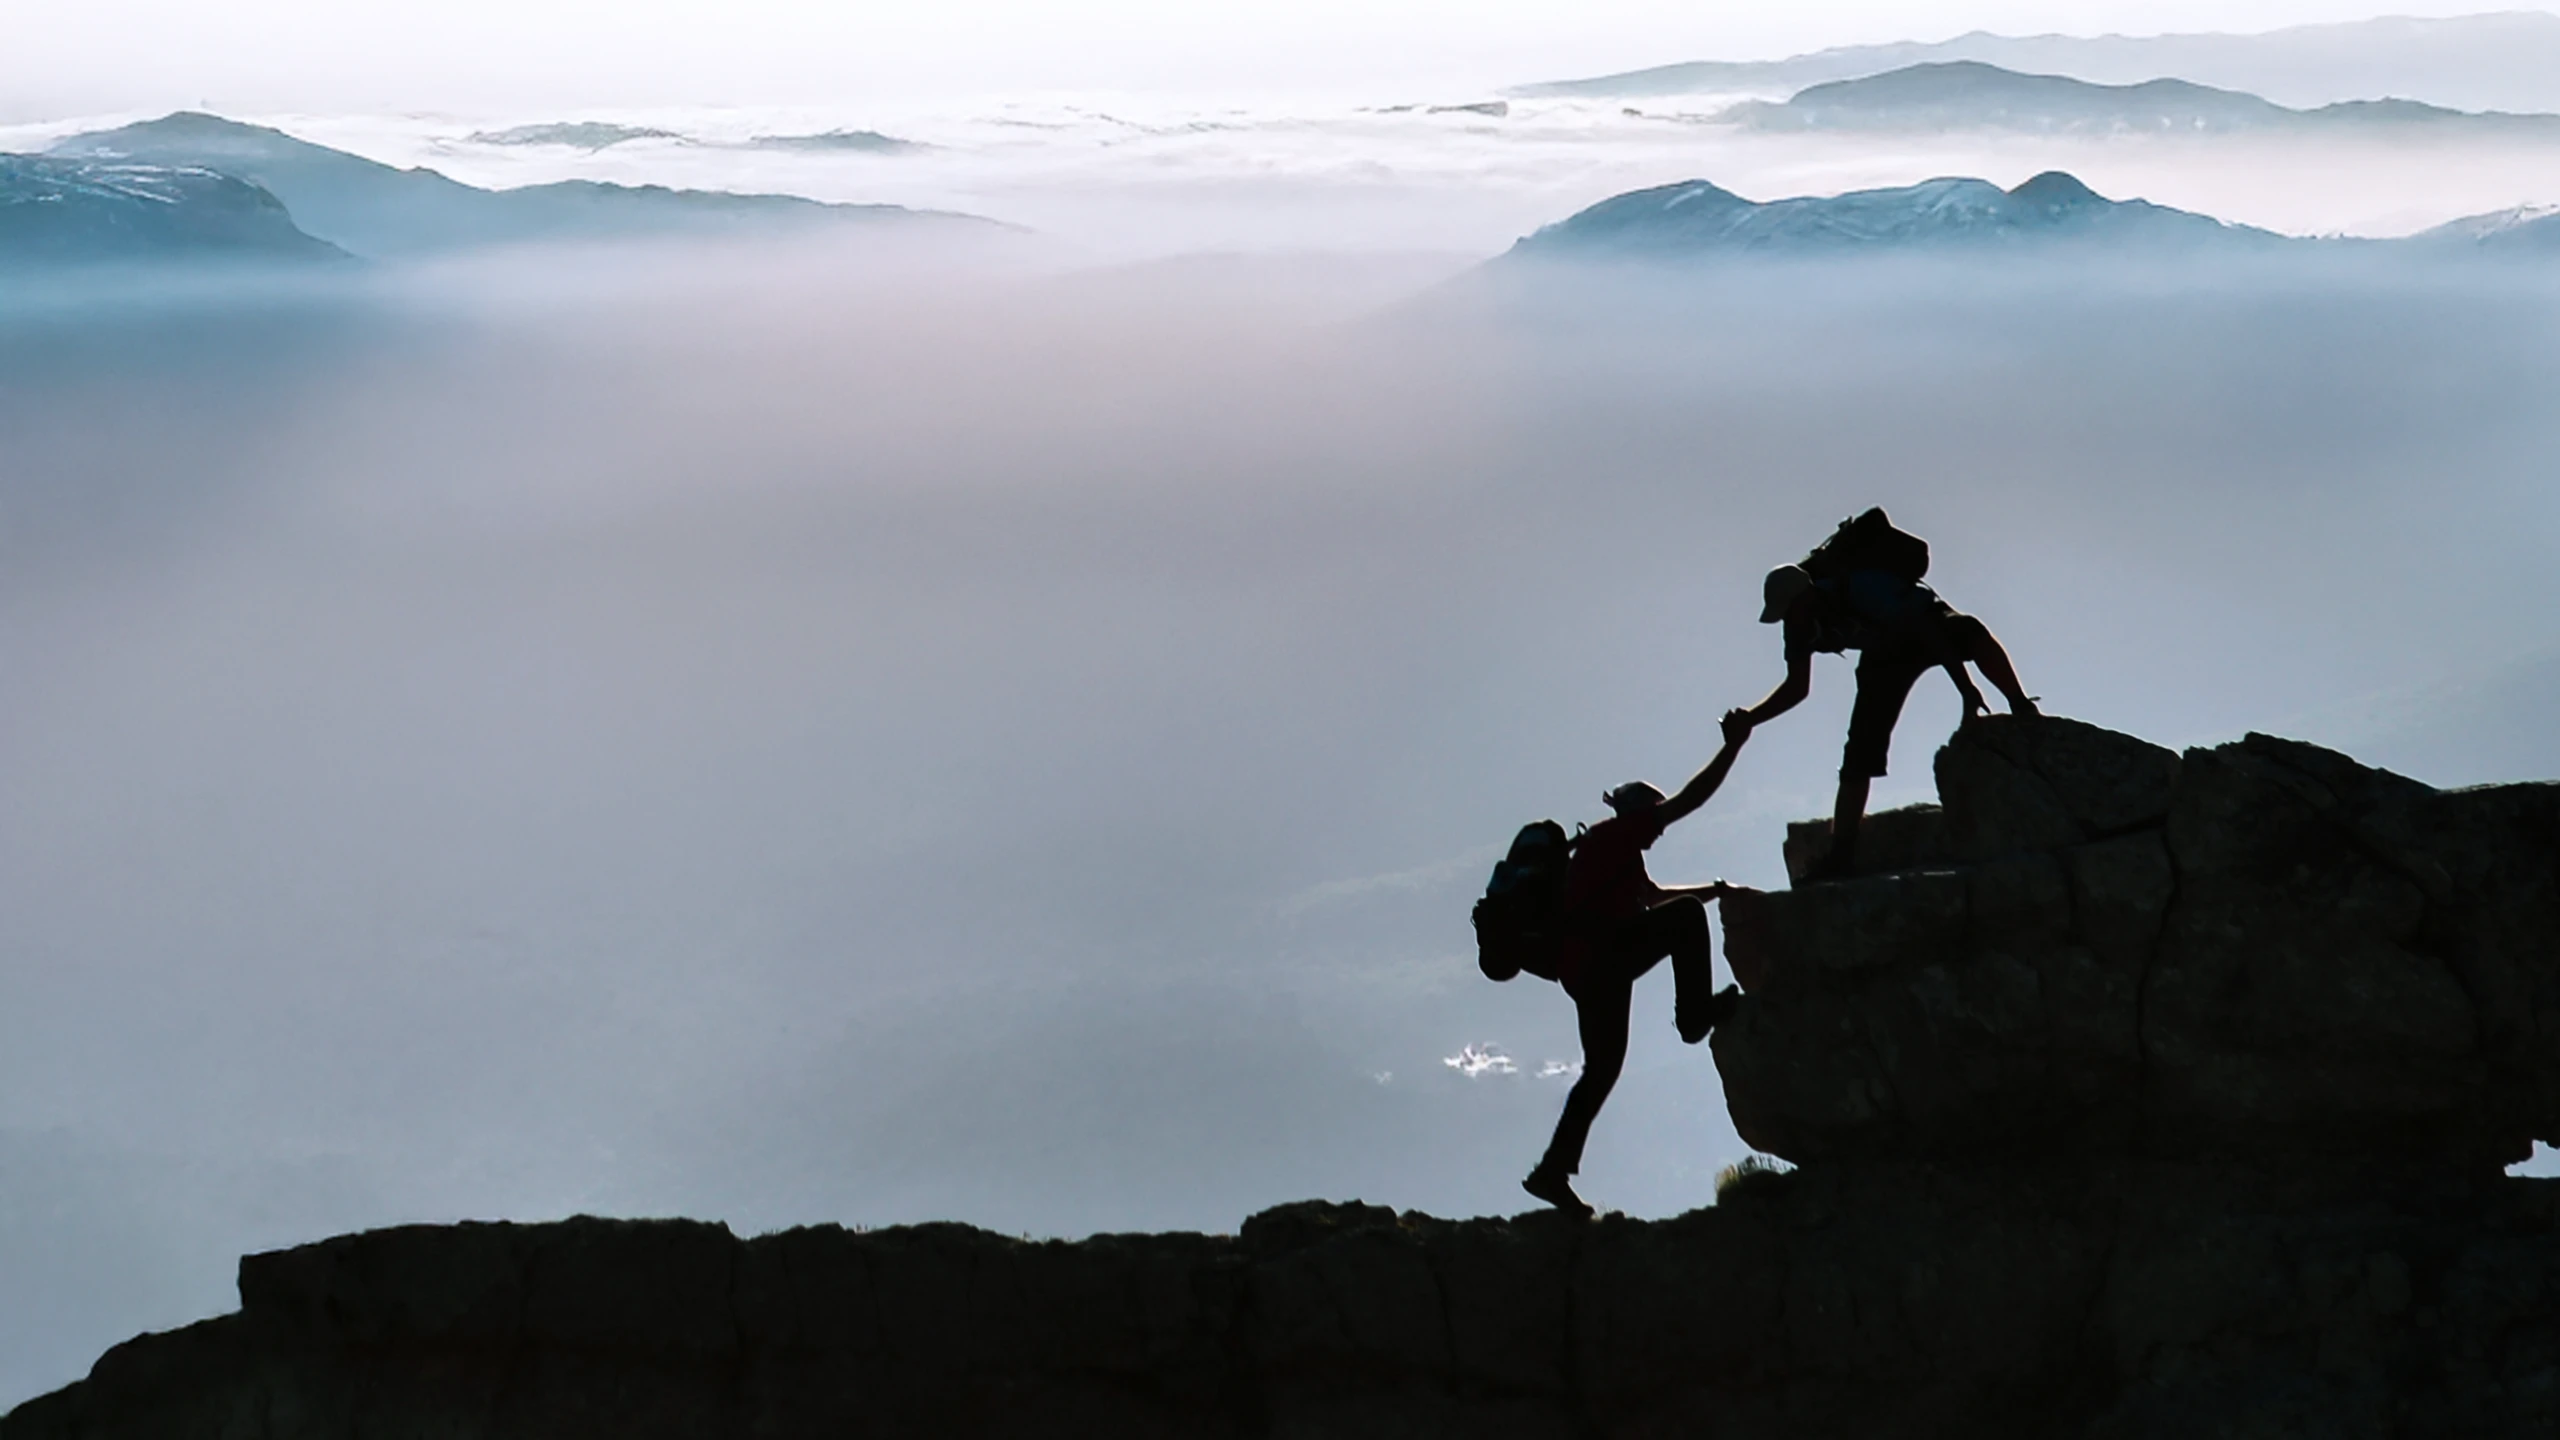
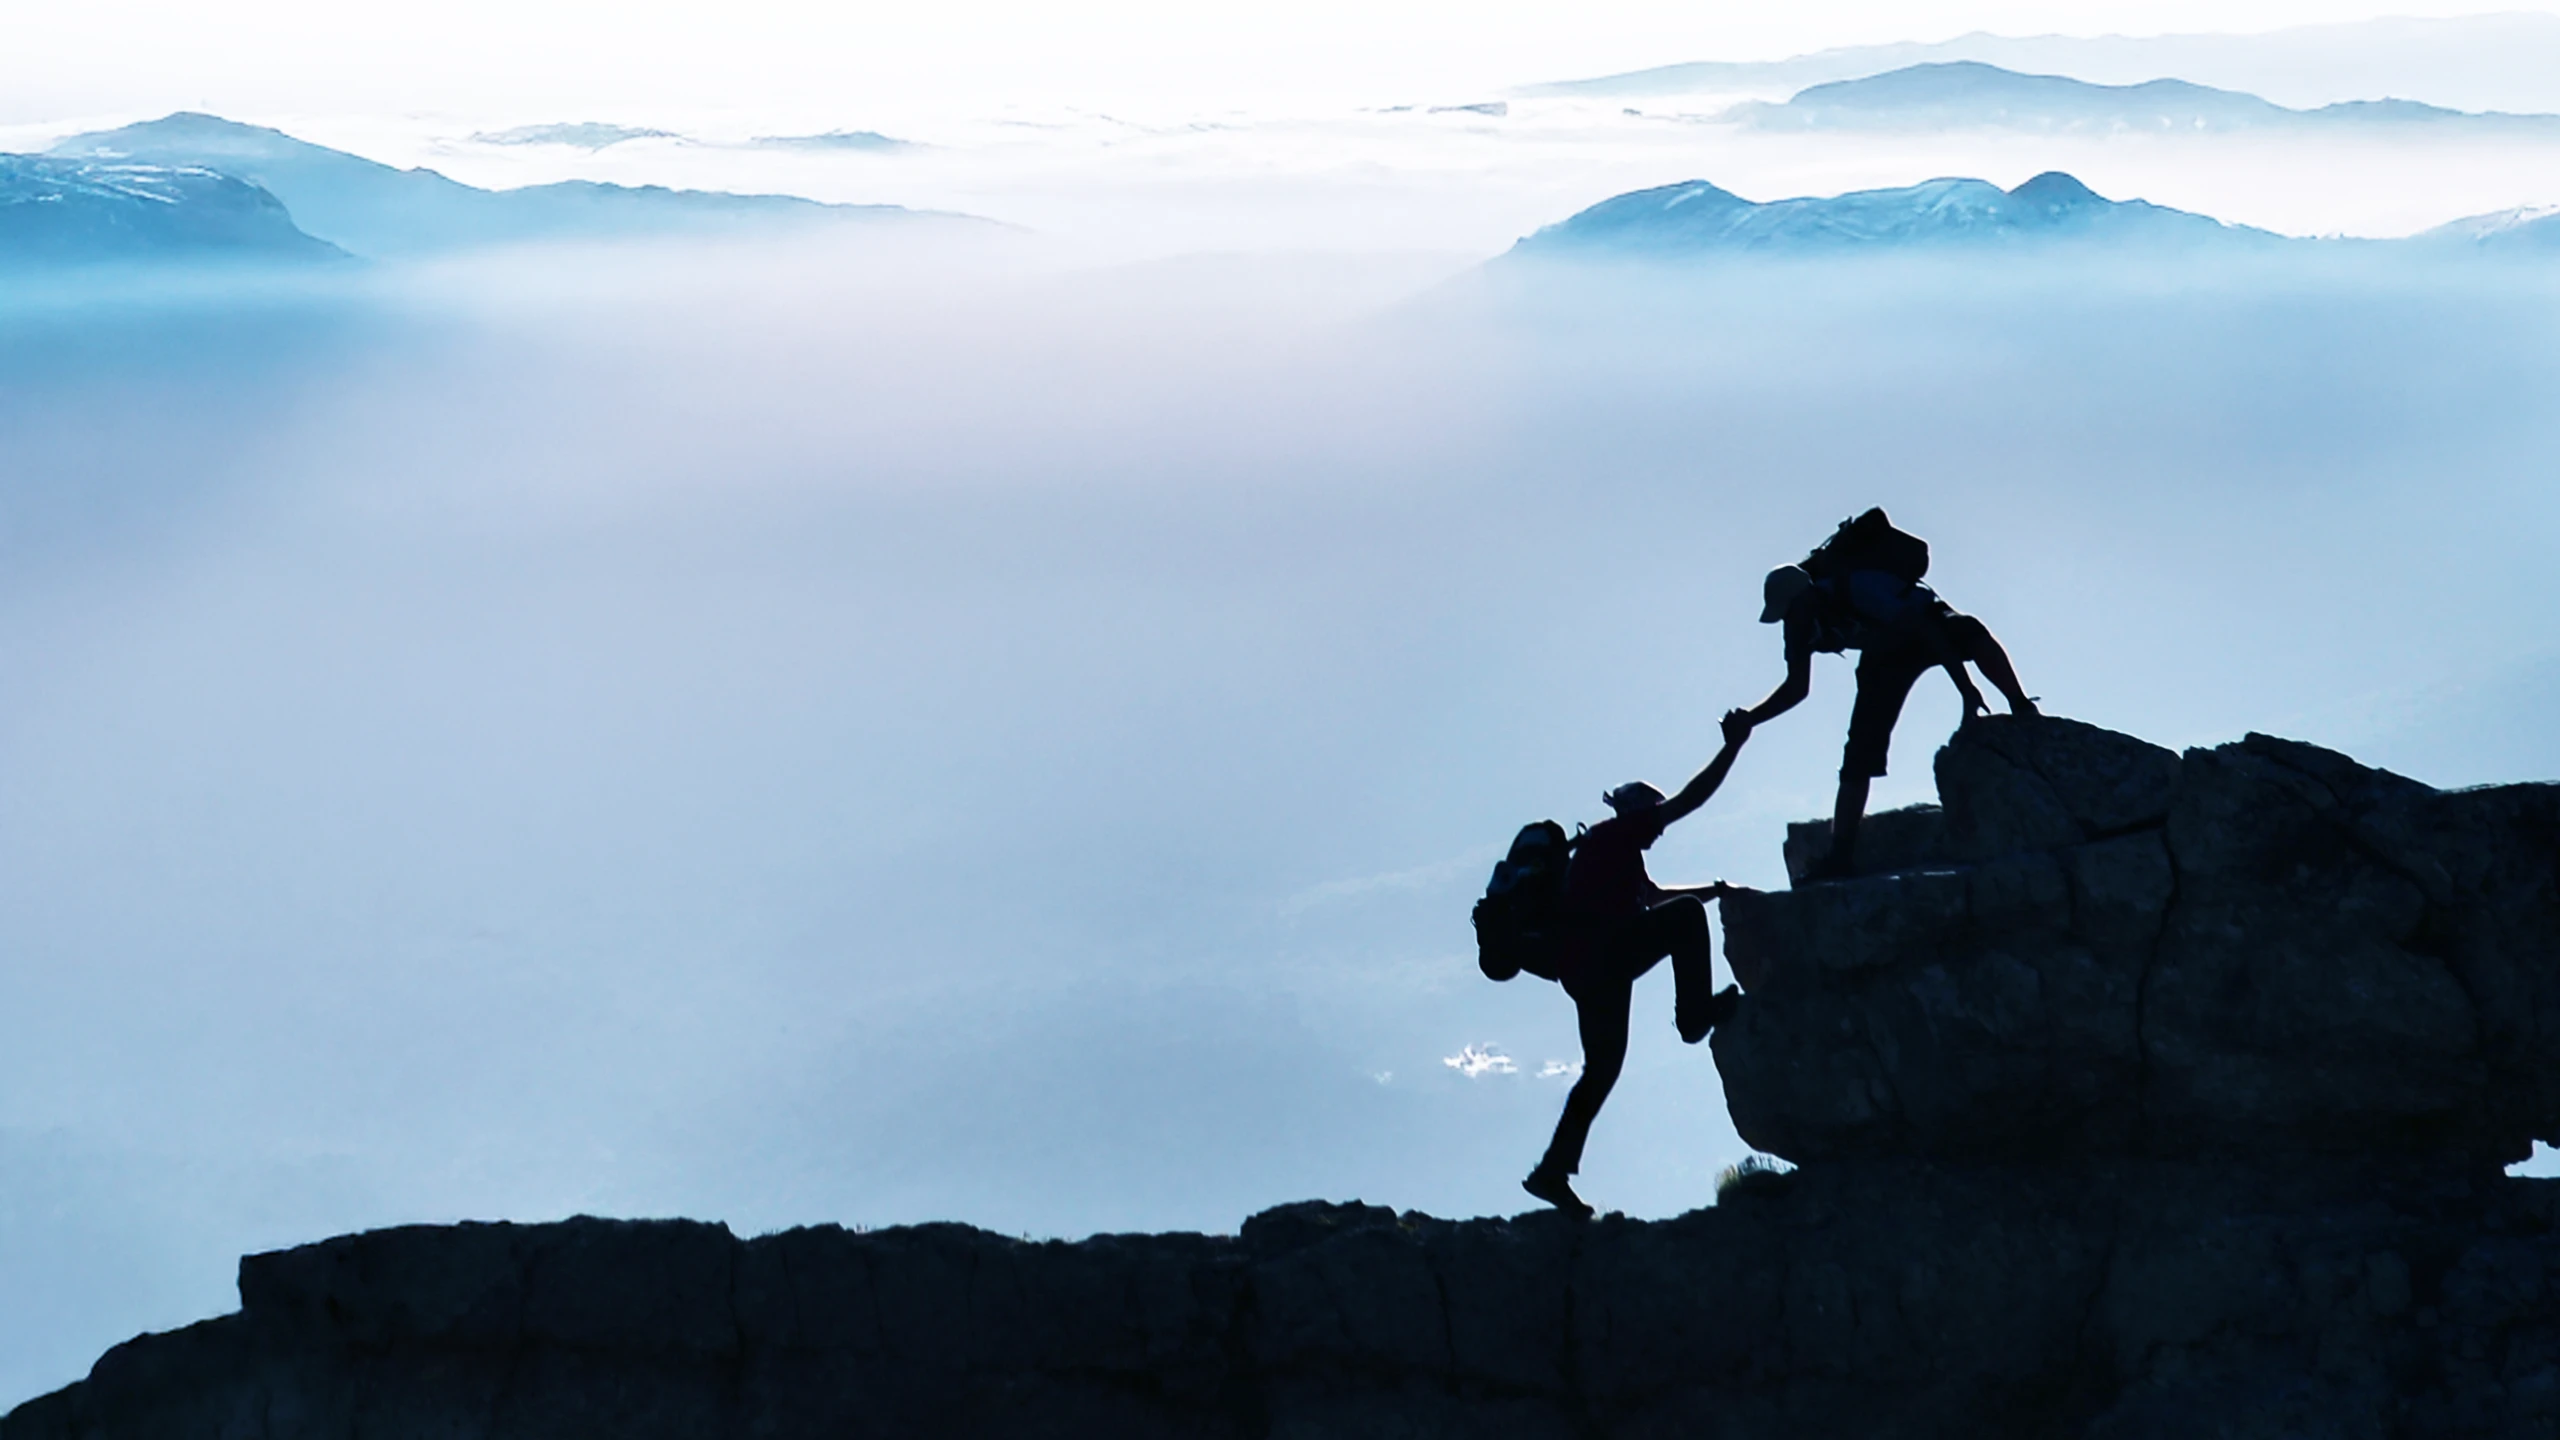
Capture: z-layout images with frosted overlays, copy edits, card names; recolored Coach hero
Claude-Session: https://claude.ai/code/session_017c9dFhV1jq5yJqU4bXW5Yd

diff --git a/src/components/yovu/capture/ServiceSummary.tsx b/src/components/yovu/capture/ServiceSummary.tsx
@@ -1,0 +1,49 @@
+import { motion } from "motion/react";
+import { Sparkles, Check } from "lucide-react";
+
+const lines = [
+  "Recall notice: replace airbag inflator module",
+  "Front brake pads worn — ~20% remaining",
+  "Follow-up: order parts and book inspection",
+];
+
+/**
+ * Frosted AI call-summary overlaid on the left of a z-layout image, capturing
+ * the service details discussed on a call. Theme aware, decorative.
+ */
+export function ServiceSummary() {
+  return (
+    <div className="absolute inset-y-0 left-0 flex w-1/2 items-center justify-center p-4 sm:p-6">
+      <motion.div
+        aria-hidden="true"
+        initial={{ opacity: 0, y: 16 }}
+        whileInView={{ opacity: 1, y: 0 }}
+        viewport={{ once: true, amount: 0.5 }}
+        transition={{ duration: 0.6, ease: "easeOut" }}
+        className="w-full max-w-[18rem] overflow-hidden rounded-2xl bg-white/75 shadow-xl shadow-black/20 ring-1 ring-black/5 backdrop-blur-xl dark:bg-[#0b1733]/60 dark:ring-white/15"
+      >
+        <div className="flex items-center gap-2 border-b border-slate-200/70 px-4 py-3 dark:border-white/10">
+          <Sparkles className="size-3.5 text-signal" strokeWidth={2.25} />
+          <p className="text-[11px] font-semibold uppercase tracking-[0.18em] text-slate-500 dark:text-white/60">
+            Call summary
+          </p>
+        </div>
+        <ul className="space-y-2.5 px-4 py-3.5">
+          {lines.map((line, i) => (
+            <motion.li
+              key={i}
+              initial={{ opacity: 0, x: -6 }}
+              whileInView={{ opacity: 1, x: 0 }}
+              viewport={{ once: true, amount: 0.5 }}
+              transition={{ duration: 0.4, delay: 0.35 + i * 0.2 }}
+              className="flex items-start gap-2 text-[13px] leading-snug text-slate-700 dark:text-white/85"
+            >
+              <Check className="mt-0.5 size-3.5 shrink-0 text-emerald-500" strokeWidth={3} />
+              <span>{line}</span>
+            </motion.li>
+          ))}
+        </ul>
+      </motion.div>
+    </div>
+  );
+}

diff --git a/src/routes/capture.tsx b/src/routes/capture.tsx
@@ -17,23 +17,63 @@ import { TranscriptSentiment } from "@/components/yovu/animations/TranscriptSent
 import { SearchableHistory } from "@/components/yovu/animations/SearchableHistory";
 import { CallRecording } from "@/components/yovu/animations/CallRecording";
 import { CallCollector } from "@/components/yovu/capture/CallCollector";
+import { VoicemailAlert } from "@/components/yovu/capture/VoicemailAlert";
+import { ServiceSummary } from "@/components/yovu/capture/ServiceSummary";
 import captureHero from "@/assets/hero/blurred-greenery-and-foliage.webp";
+import manLookingAtPhone from "@/assets/imagery/professional man looking at phone.webp";
+import mechanic from "@/assets/imagery/mechanic working on a vehicle.webp";
+import treeSkyline from "@/assets/imagery/tree skyline.webp";
+
+const zImageClass = "aspect-[4/3] w-full rounded-2xl object-cover ring-1 ring-border";
 
 const introBlocks: ZLayoutItem[] = [
   {
     kicker: "Effortless Capture",
     title: "Capture every detail, automatically",
-    copy: "Say goodbye to manual data entry, sticky notes, and incomplete client files. YOVU seamlessly captures conversations, transcribes, and logs every call, text, and voicemail the moment it happens. Your team can focus entirely on the client, knowing the system is building a defensible record in the background.",
+    copy: "Say goodbye to manual data entry, sticky notes, and incomplete client files. YOVU seamlessly captures conversations, transcribes, and logs every call, text, and voicemail the moment it happens. Your team can focus entirely on the client, knowing there’s a defensible record in the background.",
+    media: (
+      <div className="relative">
+        <img
+          src={manLookingAtPhone}
+          alt="Professional checking his phone"
+          loading="lazy"
+          decoding="async"
+          className={zImageClass}
+        />
+        <VoicemailAlert />
+      </div>
+    ),
   },
   {
     kicker: "Actionable Insight",
     title: "Turn raw conversations into action",
     copy: "A recording is good, but actionable data is better. YOVU goes beyond basic recording by instantly pulling out next steps, key details, and client sentiment. Whether it is a routine renewal or a complex service issue, anyone in your team can open a file and instantly understand exactly where the client stands.",
+    media: (
+      <div className="relative">
+        <img
+          src={mechanic}
+          alt="Mechanic working on a vehicle"
+          loading="lazy"
+          decoding="async"
+          className={zImageClass}
+        />
+        <ServiceSummary />
+      </div>
+    ),
   },
   {
     kicker: "Built for Teams",
-    title: "Made to empower your workforce",
+    title: "Made to help your employees thrive",
     copy: "Capture is designed to make your client records complete, not to watch your team. Strict role-based access controls let administrators decide exactly who can view recordings, transcripts, and reports. The real value belongs to the daily operator: less time writing up manual notes, no more reconstructing calls from memory, and a seamless handoff process where callers don’t have to repeat themselves.",
+    media: (
+      <img
+        src={treeSkyline}
+        alt="Trees against a bright sky"
+        loading="lazy"
+        decoding="async"
+        className={zImageClass}
+      />
+    ),
   },
 ];
 
@@ -129,7 +169,7 @@ function CaptureHero() {
               Every call captured
               <br className="hidden sm:block" /> in one place.
             </h1>
-            <p className="mt-6 max-w-xl text-pretty text-lg text-white/80">
+            <p className="mt-4 max-w-xl text-pretty text-lg text-white/80">
               Don’t just record your calls. YOVU uses AI to summarize details, extract next steps,
               and log them directly to your client records.
             </p>

diff --git a/src/components/yovu/capture/VoicemailAlert.tsx b/src/components/yovu/capture/VoicemailAlert.tsx
@@ -1,0 +1,32 @@
+import { motion } from "motion/react";
+import { Voicemail } from "lucide-react";
+
+/**
+ * Frosted alert overlaid on the left of a z-layout image: a new voicemail
+ * transcription has landed. Theme aware, decorative.
+ */
+export function VoicemailAlert() {
+  return (
+    <div className="absolute inset-y-0 left-0 flex w-1/2 items-center justify-center p-4 sm:p-6">
+      <motion.div
+        aria-hidden="true"
+        initial={{ opacity: 0, y: 16 }}
+        whileInView={{ opacity: 1, y: 0 }}
+        viewport={{ once: true, amount: 0.5 }}
+        transition={{ duration: 0.6, ease: "easeOut" }}
+        className="flex w-full max-w-[17rem] items-center gap-3 rounded-2xl bg-white/75 p-3.5 shadow-xl shadow-black/20 ring-1 ring-black/5 backdrop-blur-xl dark:bg-[#0b1733]/60 dark:ring-white/15"
+      >
+        <span className="relative flex size-10 shrink-0 items-center justify-center rounded-full bg-signal/10 text-signal">
+          <span className="absolute inline-flex size-full animate-ping rounded-full bg-signal opacity-30" />
+          <Voicemail className="relative size-5" strokeWidth={2.25} />
+        </span>
+        <div className="min-w-0">
+          <p className="text-[13px] font-semibold text-slate-800 dark:text-white">New voicemail</p>
+          <p className="text-[12px] text-slate-500 dark:text-white/60">
+            Transcription available
+          </p>
+        </div>
+      </motion.div>
+    </div>
+  );
+}

diff --git a/src/components/yovu/capture/CallCollector.tsx b/src/components/yovu/capture/CallCollector.tsx
@@ -18,12 +18,12 @@ type Call = {
 };
 
 const calls: Call[] = [
-  { name: "Priya Kapadia", number: "[phone redacted]", dir: "out" },
-  { name: "Marcus Bellemare", number: "[phone redacted]", dir: "in" },
-  { name: "Hannah Okafor", number: "[phone redacted]", dir: "out" },
-  { name: "Noah Vandenberg", number: "[phone redacted]", dir: "in" },
-  { name: "Farah Haddad", number: "[phone redacted]", dir: "out" },
-  { name: "Owen Fitzgerald", number: "[phone redacted]", dir: "in" },
+  { name: "David Smith", number: "[phone redacted]", dir: "out" },
+  { name: "Olivia Johnson", number: "[phone redacted]", dir: "in" },
+  { name: "Michael Brown", number: "[phone redacted]", dir: "out" },
+  { name: "Charlotte Tremblay", number: "[phone redacted]", dir: "in" },
+  { name: "Noah Martin", number: "[phone redacted]", dir: "out" },
+  { name: "Emma Wilson", number: "[phone redacted]", dir: "in" },
 ];
 
 const COUNT = calls.length;